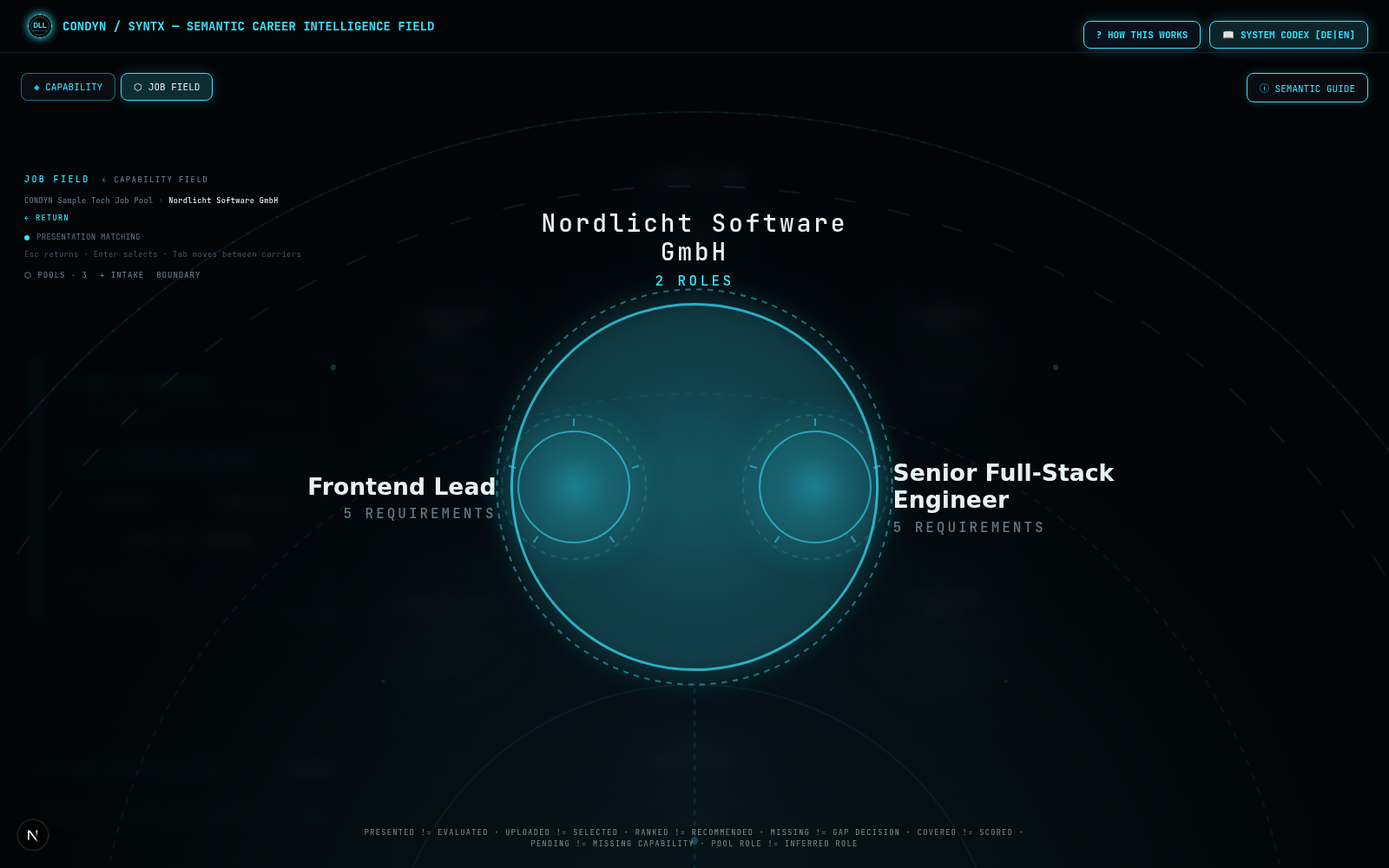
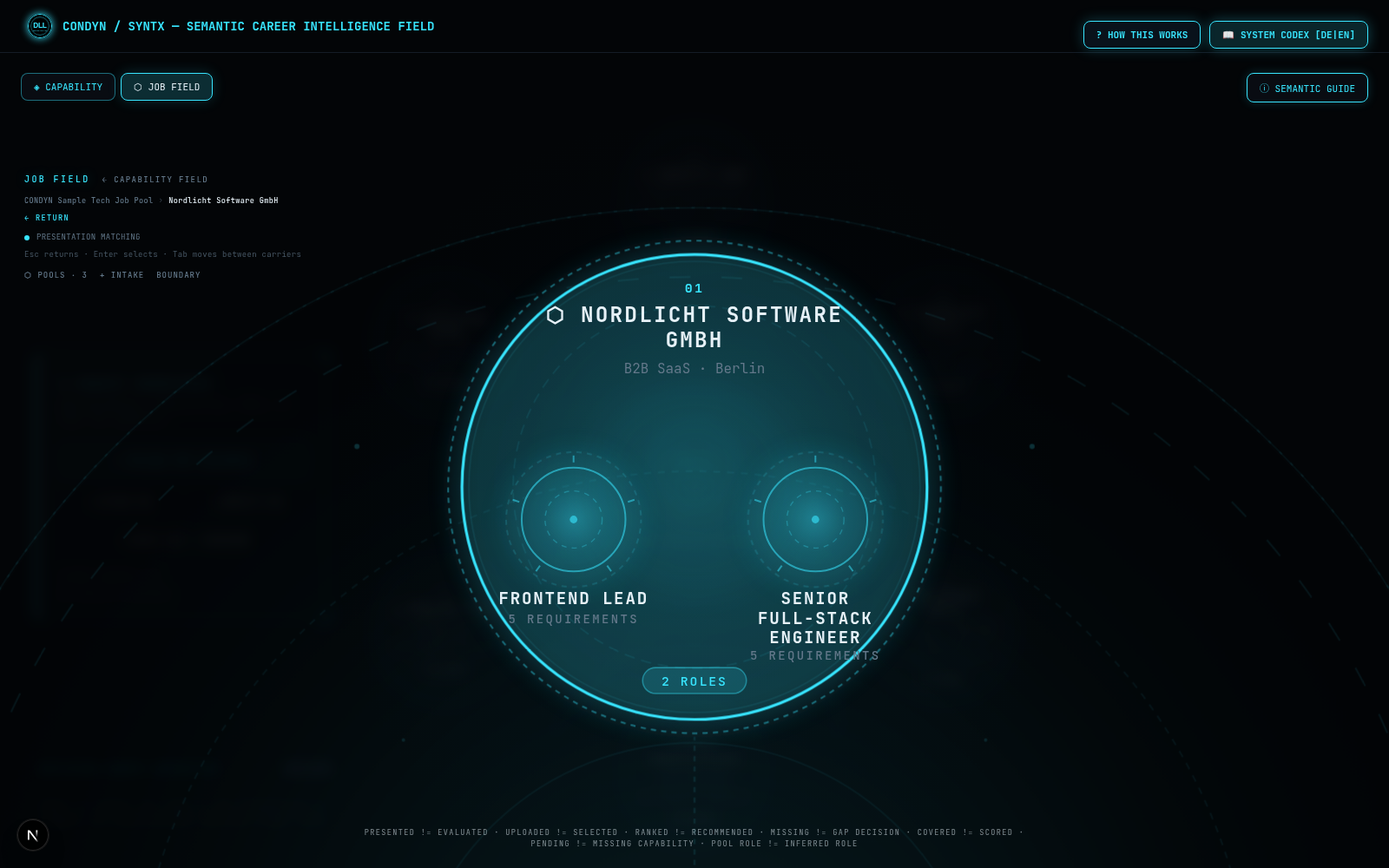
feat(career): SYNTX visual grammar transfer — planetarium nodes, pool core, mint evidence carriers, draw-on traces, HUD aperture
Owner mandates "SFE — GREEN · VISUAL FIELD RECONSTRUCTION" and "SFE — GREEN · VISUAL GRAMMAR TRANSFER" (2026-10-12), on e6486b1.
Three lab rounds in Chromium against the Capability Field captured in the same environment (sequence under
docs/career_analysis/evidence/job-pool/living-field/, reference included).

- Regions are planetarium nodes: glass body and rim, inner and signature rings, identity block inside (kicker, ⬡ name, industry · region),
  density pill (N ROLES); region radius min(190, 92 + 30·√roles); roles on a lower inner ring (centre +.14 r, .44 r / .52 r unfolded).
- Role carriers are cores: signature ring + centre point, mono uppercase title (CSS text-transform; DOM keeps the delivered name)
  with N REQUIREMENTS; in the ecology the title sits inside the core and two plasma rings settle once (sxCoreSettle, role_selected).
- The pool has a core at the field centre (glow, core body, two plasma rings turning under sxOrbit at FIELD only, pool name,
  N ORGANIZATIONS) from which the containment spokes radiate.
- Evidence carriers in the planetarium's mint: document glyph, SOURCE kicker, title; every trace carries a ray underlay drawing on
  from the carrier to the anchor (sxTraceDraw, trace_rise) while the pattern fades in; SOURCE_BOX grown to the carrier's reach.
- Requirement labels mono (REQUIREMENT_LABEL.charWidth 4.9, routing and renderer alike); aperture carries the hover-HUD surface;
  atmosphere and node rims brightened to the reference.
[…]

Changed region(s): [[0.2188, 0.248, 0.8125, 0.837]]

diff --git a/app/components/career/demo/SyntxField.tsx b/app/components/career/demo/SyntxField.tsx
@@ -78,7 +78,7 @@ const word = (color: string): React.CSSProperties => ({ fontFamily: MONO, fontSi
 const action = (tone: "cyan" | "muted" = "cyan", enabled = true): React.CSSProperties => ({ background: "transparent", border: "none", padding: "4px 0", fontFamily: MONO, fontSize: "9px", fontWeight: 600, letterSpacing: "1.4px", textTransform: "uppercase", color: !enabled ? "rgba(99, 120, 138, 0.6)" : tone === "cyan" ? CYAN : MUTED, cursor: enabled ? "pointer" : "not-allowed", textShadow: enabled && tone === "cyan" ? `0 0 10px ${SIL_TOKENS.colors.cyanGlow}` : undefined, transition: "color .25s ease" });
 const ghost: React.CSSProperties = { ...action("muted"), fontSize: "8px", letterSpacing: "1px" };
 /** An aperture or edge lens: a faint void behind text, no border, no card chrome. */
-const lens: React.CSSProperties = { background: "radial-gradient(ellipse at 20% 0%, rgba(3, 5, 8, 0.94) 0%, rgba(3, 5, 8, 0.84) 60%, rgba(3, 5, 8, 0.64) 100%)", backdropFilter: "blur(6px)", borderRadius: "14px", padding: "14px 16px" };
+const lens: React.CSSProperties = { background: "radial-gradient(circle at 82% 12%, rgba(56, 229, 255, 0.14), transparent 38%), radial-gradient(circle at 18% 88%, rgba(107, 142, 255, 0.1), transparent 42%), linear-gradient(145deg, #0a1c2b, #071321 28%, #050c18 62%, #02070d)", border: "1.5px solid rgba(56, 229, 255, 0.85)", boxShadow: "0 16px 44px rgba(0, 0, 0, 0.92), 0 0 34px rgba(56, 229, 255, 0.28), 0 0 72px rgba(56, 229, 255, 0.1), inset 0 0 54px rgba(0, 0, 0, 0.88)", backdropFilter: "blur(10px)", borderRadius: "10px", padding: "16px 18px" };
 const input: React.CSSProperties = { width: "100%", boxSizing: "border-box", background: "transparent", border: "none", borderBottom: "1px solid rgba(99, 120, 138, 0.4)", color: INK, fontFamily: MONO, fontSize: "10px", padding: "5px 0", outline: "none" };
 const percent = (value: number): string => `${Math.round(value * 1000) / 10}%`;
 const visuallyHidden: React.CSSProperties = { position: "absolute", width: "1px", height: "1px", margin: "-1px", padding: 0, overflow: "hidden", clip: "rect(0 0 0 0)", whiteSpace: "nowrap", border: 0 };
@@ -107,10 +107,17 @@ const SYNTX_CSS = `
 @keyframes sxUnfold { from { opacity: 0; transform: scale(.3); } to { opacity: 1; transform: scale(1); } }
 @keyframes sxTraceRise { from { opacity: 0; transform: scale(.3); } to { opacity: 1; transform: scale(1); } }
 @keyframes sxSuspendEnter { from { opacity: 0; transform: scale(.94); } to { opacity: 1; transform: scale(1); } }
+@keyframes sxTraceDraw { from { stroke-dashoffset: 1; } to { stroke-dashoffset: 0; } }
+@keyframes sxCoreSettle { from { opacity: 0; transform: rotate(-70deg) scale(.86); } to { opacity: 1; transform: rotate(0deg) scale(1); } }
 [data-testid="syntx-field"] [data-sx-reveal] { animation: sxRise .32s ease-out backwards; }
 /* Transitions of the living field: each finite, each bound to the sign's transition or state (recenter, unfold, trace_rise, boundary_suspend). */
 [data-testid="syntx-canvas"] [data-sign-transition="unfold"][data-sign-manifestation="anchor"] { transform-box: view-box; transform-origin: var(--sx-origin); animation: sxUnfold .78s cubic-bezier(.16,1,.3,1) backwards; }
 [data-testid="syntx-canvas"] [data-sign-transition="trace_rise"] { transform-box: view-box; transform-origin: var(--sx-origin); animation: sxTraceRise .78s cubic-bezier(.16,1,.3,1) .12s backwards; }
+/* Evidence rises: the trace's ray draws on from the source carrier to the anchor (trace_rise), the pattern fades in behind it. */
+[data-testid="syntx-canvas"] [data-sign-transition="trace_rise"] > [data-sx-trace-ray] { animation: sxTraceDraw 1.1s cubic-bezier(.3,0,.2,1) .2s backwards; }
+[data-testid="syntx-canvas"] [data-sign-transition="trace_rise"] > path:not([data-sx-hit]):not([data-sx-trace-ray]):not([data-sx-trace-glow]) { animation: sxRise .6s ease-out .7s backwards; }
+/* The observed role settles as the core of its ecology (role_selected): its plasma rings turn into place once. */
+[data-testid="syntx-canvas"] [data-sign-state="role_selected"] > [data-sx-core-ring] { transform-box: fill-box; transform-origin: center; animation: sxCoreSettle 1.2s cubic-bezier(.16,1,.3,1) backwards; }
 [data-testid="syntx-canvas"] [data-sign-transition="boundary_suspend"] { transform-box: view-box; transform-origin: var(--sx-origin); animation: sxSuspendEnter .78s cubic-bezier(.16,1,.3,1) backwards; }
 [data-testid="syntx-canvas"] :is([data-sign-state="organization_selected"], [data-sign-state="role_selected"], [data-sign-state="requirement_selected"]) > [data-sx-pulse] { transform-box: fill-box; transform-origin: center; animation: sxRecenter .9s ease-out forwards; }
 /* Depth: receded regions and carriers whose labels are hidden fall back behind the ecology (no visible text is blurred). */
@@ -125,6 +132,7 @@ const SYNTX_CSS = `
 [data-testid="syntx-canvas"] [data-sign-interaction="select"]:hover > [data-sx-membrane] > circle:last-child { stroke: rgba(56, 229, 255, 0.5); }
 /* Ambient life (separable: SYNTX_AMBIENT_MOTION): LIVE, FIELD / ORGANIZATION, signs in state "field", uniform per kind, phase by containment. */
 [data-testid="syntx-field"][data-sx-ambient="on"][data-motion-mode="LIVE"][data-observation-kind="FIELD"] [data-testid="syntx-pool"][data-sign-state="field"] [data-sx-orbit] { transform-box: fill-box; transform-origin: center; animation: sxOrbit 120s linear infinite; }
+[data-testid="syntx-field"][data-sx-ambient="on"][data-motion-mode="LIVE"][data-observation-kind="FIELD"] [data-testid="syntx-pool"][data-sign-state="field"] [data-sx-orbit-ccw] { transform-box: fill-box; transform-origin: center; animation: sxOrbit 90s linear infinite reverse; }
 [data-testid="syntx-field"][data-sx-ambient="on"][data-motion-mode="LIVE"]:is([data-observation-kind="FIELD"], [data-observation-kind="ORGANIZATION"]) [data-sign-manifestation="region"][data-sign-state="field"] > [data-sx-membrane] > circle,
 [data-testid="syntx-field"][data-sx-ambient="on"][data-motion-mode="LIVE"]:is([data-observation-kind="FIELD"], [data-observation-kind="ORGANIZATION"]) [data-testid^="syntx-role-"][data-sign-state="field"] > [data-sx-halo] { animation: sxBreathe 6.2s linear infinite; animation-delay: var(--sx-phase, 0s); }
 [data-testid="syntx-field"] button:hover:not(:disabled) { color: #e6f1f8; }
@@ -200,9 +208,10 @@ const receded = (sign: VisualSign): boolean => sign.state === "receded";
 const traceOrder = (trace: SyntxTrace): number => (trace.sign.state === "inspectable" ? 2 : trace.sign.state === "receded" ? 0 : 1);
 const recedeOpacity = (sign: VisualSign, deep = 0.22): number => (receded(sign) ? deep : 1);
 
-function SvgLabel({ lines, x, y, size, fill, weight = 600, anchor = "middle", family = SANS, spacing }: { lines: string[]; x: number; y: number; size: number; fill: string; weight?: number; anchor?: "middle" | "start" | "end"; family?: string; spacing?: number }) {
+function SvgLabel({ lines, x, y, size, fill, weight = 600, anchor = "middle", family = SANS, spacing, uppercase = false }: { lines: string[]; x: number; y: number; size: number; fill: string; weight?: number; anchor?: "middle" | "start" | "end"; family?: string; spacing?: number; uppercase?: boolean }) {
+  // Uppercase is presentation only (CSS): the DOM text keeps the delivered name.
   return (
-    <text x={x} y={y} textAnchor={anchor} fill={fill} fontFamily={family} fontSize={size} fontWeight={weight} letterSpacing={spacing} style={{ pointerEvents: "none" }}>
+    <text x={x} y={y} textAnchor={anchor} fill={fill} fontFamily={family} fontSize={size} fontWeight={weight} letterSpacing={spacing} style={{ pointerEvents: "none", textTransform: uppercase ? "uppercase" : undefined }}>
       {lines.map((line, index) => <tspan key={index} x={x} dy={index === 0 ? 0 : size * 1.18}>{line}</tspan>)}
     </text>
   );
@@ -256,7 +265,7 @@ function FieldCanvas({ field, mode, t, onObserve }: CanvasProps) {
     <svg data-testid="syntx-canvas" data-motion-mode={mode} data-camera-scale={camera.scale} viewBox={`0 0 ${size} ${size}`} style={{ position: "absolute", inset: 0, width: "100%", height: "100%", overflow: "visible" }} onClick={() => onObserve(returnFrom(observation))}>
       <defs>
         {/* Materials of the Capability Field (planetarium): atmosphere, membrane, core light, soft glow. */}
-        <radialGradient id="sxField"><stop offset="0%" stopColor="#38e5ff" stopOpacity="0.16" /><stop offset="58%" stopColor="#38e5ff" stopOpacity="0.035" /><stop offset="100%" stopColor="#030508" stopOpacity="0" /></radialGradient>
+        <radialGradient id="sxField"><stop offset="0%" stopColor="#38e5ff" stopOpacity="0.2" /><stop offset="58%" stopColor="#38e5ff" stopOpacity="0.04" /><stop offset="100%" stopColor="#030508" stopOpacity="0" /></radialGradient>
         <radialGradient id="sxMembrane"><stop offset="0%" stopColor="#38e5ff" stopOpacity="0.11" /><stop offset="56%" stopColor="#38e5ff" stopOpacity="0.035" /><stop offset="100%" stopColor="#38e5ff" stopOpacity="0.01" /></radialGradient>
         <radialGradient id="sxCore"><stop offset="0%" stopColor="#38e5ff" stopOpacity="0.3" /><stop offset="62%" stopColor="#38e5ff" stopOpacity="0.08" /><stop offset="100%" stopColor="#38e5ff" stopOpacity="0.02" /></radialGradient>
         <filter id="sxGlow" x="-60%" y="-60%" width="220%" height="220%"><feGaussianBlur stdDeviation="7" /></filter>
@@ -287,6 +296,17 @@ function FieldCanvas({ field, mode, t, onObserve }: CanvasProps) {
                 );
               })}
               <circle cx={center} cy={center} r={R} fill="none" stroke="rgba(56, 229, 255, 0.14)" strokeDasharray="2 7" />
+              {/* The pool core: the field's organism at the centre, where the containment spokes originate (planetarium core grammar). */}
+              <g data-sx-pool-core style={{ opacity: field.pool.sign.state === "field" ? 1 : 0, transition: "opacity .45s ease" }}>
+                <circle cx={center} cy={center} r={62} fill="rgba(56, 229, 255, 0.16)" filter="url(#sxGlow)" />
+                <circle cx={center} cy={center} r={48} fill="url(#sxCore)" stroke="rgba(56, 229, 255, 0.45)" strokeWidth={1.4} />
+                <circle data-sx-orbit cx={center} cy={center} r={58} fill="none" stroke={CYAN} strokeWidth={1.1} strokeDasharray="24 12 8 16" opacity={0.55} />
+                <circle data-sx-orbit-ccw cx={center} cy={center} r={68} fill="none" stroke={SIL_TOKENS.colors.cyanGlowStrong} strokeWidth={0.9} strokeDasharray="16 8 4 12" opacity={0.6} />
+                <circle cx={center} cy={center} r={40} fill="none" stroke="rgba(56, 229, 255, 0.22)" strokeWidth={0.8} />
+                <text x={center} y={center - 10} textAnchor="middle" fill={MUTED} fontFamily={MONO} fontSize={6.6} fontWeight={700} letterSpacing={1.6}>{t.pools}</text>
+                <SvgLabel lines={wrapLines(field.pool.poolName, 14, 2)} x={center} y={center + 2} size={7.6} fill={INK} weight={700} family={MONO} spacing={0.8} uppercase />
+                <text x={center} y={center + 2 + wrapLines(field.pool.poolName, 14, 2).length * 9 + 4} textAnchor="middle" fill={CYAN} fontFamily={MONO} fontSize={6.2} fontWeight={600} letterSpacing={1.2}>{field.organizations.length} {t.organizations}</text>
+              </g>
             </g>
           );
         })()}
@@ -294,9 +314,12 @@ function FieldCanvas({ field, mode, t, onObserve }: CanvasProps) {
         {/* Organizations: named membranes; roles are visibly contained. Far regions recede with depth once a role is observed. */}
         {field.organizations.map(organization => {
           const selected = organization.sign.state === "organization_selected";
-          const far = observedRole !== null && organization.sign.state === "field";
-          const lines = wrapLines(organization.name, 22, 2);
+          const far = (observedRole !== null && organization.sign.state === "field") || (observation.kind === "ORGANIZATION" && organization.sign.state === "receded");
+          const index = field.organizations.indexOf(organization);
+          const nameLines = wrapLines(organization.name, 18, 2);
+          const subtitle = [organization.industry, organization.region].filter((part): part is string => part !== null).join(" · ");
           const r = organization.radius;
+          const top = organization.y - r;
           return (
             <g
               key={organization.id}
@@ -318,14 +341,19 @@ function FieldCanvas({ field, mode, t, onObserve }: CanvasProps) {
                 <circle cx={organization.x} cy={organization.y} r={r} fill="url(#sxMembrane)" />
                 <circle cx={organization.x} cy={organization.y} r={r + 8} fill="none" stroke={selected ? "rgba(56, 229, 255, 0.42)" : "rgba(56, 229, 255, 0.18)"} strokeWidth={1} strokeDasharray="3 3" style={{ transition: "stroke .4s ease" }} />
               </g>
-              <circle cx={organization.x} cy={organization.y} r={r} fill={selected ? "rgba(56, 229, 255, 0.05)" : "rgba(56, 229, 255, 0.02)"} stroke={selected ? "rgba(56, 229, 255, 0.7)" : "rgba(56, 229, 255, 0.26)"} strokeWidth={selected ? 1.4 : 1} style={{ transition: "stroke .4s ease, fill .4s ease" }} />
+              {/* Semiotic signature of a region: a faint inner ring, as every planetarium node carries one. */}
+              <circle cx={organization.x} cy={organization.y} r={r * 0.78} fill="none" stroke="rgba(56, 229, 255, 0.1)" strokeWidth={0.8} strokeDasharray="6 4" style={{ pointerEvents: "none" }} />
+              <circle cx={organization.x} cy={organization.y} r={r} fill={selected ? "rgba(56, 229, 255, 0.05)" : "rgba(10, 14, 20, 0.35)"} stroke={selected ? "#38e5ff" : "rgba(56, 229, 255, 0.4)"} strokeWidth={selected ? 1.6 : 1.3} style={{ transition: "stroke .4s ease, fill .4s ease" }} />
+              <circle cx={organization.x} cy={organization.y} r={r - 4} fill="none" stroke="rgba(56, 229, 255, 0.1)" strokeWidth={0.8} style={{ pointerEvents: "none" }} />
               {selected && <circle data-sx-pulse cx={organization.x} cy={organization.y} r={r + 8} fill="none" stroke={CYAN} strokeWidth={1.4} style={{ pointerEvents: "none" }} />}
-              {!far && (
-                <>
-                  <SvgLabel lines={lines} x={organization.x} y={organization.y - r - 24 - (lines.length - 1) * 15} size={13} fill={selected ? INK : INK_SOFT} weight={600} family={MONO} spacing={1.4} />
-                  <text x={organization.x} y={organization.y - r - 10} textAnchor="middle" fill={selected ? CYAN : MUTED} fontFamily={MONO} fontSize={7.5} fontWeight={600} letterSpacing={1.6} style={{ pointerEvents: "none" }}>{organization.roleIds.length} {t.roles}</text>
-                </>
-              )}
+              {/* Identity block (planetarium node grammar): kicker, glyph + name, subtitle; the density pill below the roles. Hidden text stays in the DOM when the region is far. */}
+              <g style={{ pointerEvents: "none", opacity: far ? 0 : 1, transition: "opacity .45s ease" }}>
+                <text x={organization.x} y={top + 22} textAnchor="middle" fill={selected ? CYAN : MUTED} fontFamily={MONO} fontSize={7.5} fontWeight={700} letterSpacing={1.2}>{String(index + 1).padStart(2, "0")}</text>
+                <SvgLabel lines={nameLines.map((line, lineIndex) => (lineIndex === 0 ? `⬡ ${line}` : line))} x={organization.x} y={top + 39} size={12.2} fill={selected ? INK : INK_SOFT} weight={700} family={MONO} spacing={1.1} uppercase />
+                {subtitle.length > 0 && <text x={organization.x} y={top + 39 + nameLines.length * 14.4 + 1} textAnchor="middle" fill={MUTED} fontFamily={MONO} fontSize={8}>{subtitle}</text>}
+                <rect x={organization.x - 30} y={organization.y + r - 30} width={60} height={15} rx={7.5} fill={selected ? "rgba(56, 229, 255, 0.15)" : "rgba(255, 255, 255, 0.05)"} stroke={selected ? "rgba(56, 229, 255, 0.4)" : "transparent"} strokeWidth={0.8} />
+                <text x={organization.x} y={organization.y + r - 19.5} textAnchor="middle" fill={selected ? CYAN : INK_SOFT} fontFamily={MONO} fontSize={7.4} fontWeight={600} letterSpacing={1}>{organization.roleIds.length} {t.roles}</text>
+              </g>
             </g>
           );
         })}
@@ -334,22 +362,16 @@ function FieldCanvas({ field, mode, t, onObserve }: CanvasProps) {
         {field.roles.map(role => {
           const selected = role.sign.state === "role_selected";
           const inEcology = observedRole !== null && observedRole.id === role.id;
-          const lines = wrapLines(role.title, 17, 3);
+          const lines = wrapLines(role.title, 13, 3);
           const ticks = Math.min(14, role.requirementCount);
           const region = field.organizations.find(organization => organization.id === role.organizationId)!;
-          const siblings = region.roleIds.length;
           const organizationIndex = field.organizations.indexOf(region);
-          // The label sits outward from the region centre (readable, never colliding with a sibling's label); a single role reads below its body.
-          const ox = siblings > 1 ? role.x - region.x : 0;
-          const oy = siblings > 1 ? role.y - region.y : 1;
-          const norm = Math.hypot(ox, oy) || 1;
-          const ux = ox / norm;
-          const uy = oy / norm;
-          const labelAnchor: "middle" | "start" | "end" = Math.abs(ux) < 0.35 ? "middle" : ux > 0 ? "start" : "end";
-          const labelX = ux * (role.radius + 12);
-          const labelY = uy * (role.radius + 12) + (Math.abs(ux) < 0.35 ? (uy > 0 ? 12 : -(lines.length - 1) * 14.75 - 4) : -(lines.length - 1) * 7.4 + 4);
+          // The label reads below the body inside the region, in the node grammar (mono, tracked); the ecology shows the title inside the core.
+          const labelAnchor = "middle" as const;
+          const labelX = 0;
+          const labelY = role.radius + 19;
           const labelHidden = observedRole !== null && !inEcology;
-          const far = labelHidden && role.sign.state === "receded";
+          const far = (labelHidden && role.sign.state === "receded") || (observation.kind === "ORGANIZATION" && region.sign.state === "receded");
           const lit = selected || inEcology;
           const r = role.radius;
           return (
@@ -370,10 +392,10 @@ function FieldCanvas({ field, mode, t, onObserve }: CanvasProps) {
             >
               {(() => {
                 // The hit area covers body and label together, so the carrier's bounding-box centre is always a hit (keyboard, pointer, automation alike).
-                const labelWidth = labelHidden || inEcology ? 0 : Math.max(...lines.map(line => line.length)) * 6.9;
-                const labelLeft = labelAnchor === "start" ? labelX : labelAnchor === "end" ? labelX - labelWidth : labelX - labelWidth / 2;
-                const labelTop = labelY - 12.5;
-                const labelBottom = labelY + (lines.length - 1) * 14.75 + 4;
+                const labelWidth = labelHidden || inEcology ? 0 : Math.max(...lines.map(line => line.length)) * 5.6;
+                const labelLeft = labelX - labelWidth / 2;
+                const labelTop = labelY - 9;
+                const labelBottom = labelY + (lines.length - 1) * 10.6 + 14;
                 const left = Math.min(-r - 11, labelWidth > 0 ? labelLeft : Infinity);
                 const right = Math.max(r + 11, labelWidth > 0 ? labelLeft + labelWidth : -Infinity);
                 const top = Math.min(-r - 11, labelWidth > 0 ? labelTop : Infinity);
@@ -390,9 +412,22 @@ function FieldCanvas({ field, mode, t, onObserve }: CanvasProps) {
                 const radians = ((angle - 90) * Math.PI) / 180;
                 return <line key={index} x1={(r + 3) * Math.cos(radians)} y1={(r + 3) * Math.sin(radians)} x2={(r + 7) * Math.cos(radians)} y2={(r + 7) * Math.sin(radians)} stroke="rgba(56, 229, 255, 0.5)" strokeWidth={1} />;
               })}
-              {!inEcology && !labelHidden && <SvgLabel lines={lines} x={labelX} y={labelY} size={12.5} fill={INK} weight={600} anchor={labelAnchor} />}
-              {!inEcology && !labelHidden && <text x={labelX} y={labelY + (lines.length - 1) * 14.75 + 13} textAnchor={labelAnchor} fill={MUTED} fontFamily={MONO} fontSize={7.5} fontWeight={600} letterSpacing={1.4} style={{ pointerEvents: "none" }}>{role.requirementCount} {t.requirements}</text>}
-              {inEcology && <SvgLabel lines={wrapLines(role.title, 15, 3)} x={0} y={-4 - (wrapLines(role.title, 15, 3).length - 1) * 5.5} size={8.5} fill={INK} weight={700} />}
+              {/* Signature of a carrier: the inner ring and centre point of a planetarium node. */}
+              <circle cx={0} cy={0} r={r * 0.55} fill="none" stroke="rgba(56, 229, 255, 0.28)" strokeWidth={0.7} strokeDasharray="3 3" style={{ pointerEvents: "none" }} />
+              {!inEcology && <circle cx={0} cy={0} r={2.2} fill={lit ? CYAN : "rgba(56, 229, 255, 0.6)"} style={{ pointerEvents: "none" }} />}
+              {inEcology && (
+                <>
+                  <circle data-sx-core-ring cx={0} cy={0} r={r + 16} fill="none" stroke={CYAN} strokeWidth={1.2} strokeDasharray="24 12 8 16" opacity={0.55} style={{ pointerEvents: "none" }} />
+                  <circle data-sx-core-ring cx={0} cy={0} r={r + 23} fill="none" stroke={SIL_TOKENS.colors.cyanGlowStrong} strokeWidth={1} strokeDasharray="16 8 4 12" opacity={0.5} style={{ pointerEvents: "none" }} />
+                </>
+              )}
+              {!inEcology && (
+                <g style={{ pointerEvents: "none", opacity: labelHidden ? 0 : 1, transition: "opacity .45s ease" }}>
+                  <SvgLabel lines={lines} x={labelX} y={labelY} size={9.6} fill={INK} weight={700} anchor={labelAnchor} family={MONO} spacing={0.9} uppercase />
+                  <text x={labelX} y={labelY + (lines.length - 1) * 10.6 + 11} textAnchor={labelAnchor} fill={MUTED} fontFamily={MONO} fontSize={7} fontWeight={600} letterSpacing={1.2}>{role.requirementCount} {t.requirements}</text>
+                </g>
+              )}
+              {inEcology && <SvgLabel lines={wrapLines(role.title, 11, 3)} x={0} y={-3 - (wrapLines(role.title, 11, 3).length - 1) * 4.6} size={7.2} fill={INK} weight={700} family={MONO} spacing={0.6} uppercase />}
             </g>
           );
         })}
@@ -419,9 +454,11 @@ function FieldCanvas({ field, mode, t, onObserve }: CanvasProps) {
               const lines = source.title !== null ? wrapLines(source.title, 20, 2) : [t.source];
               return (
                 <g key={source.docId} data-testid={`syntx-source-${source.docId}`} data-source-title-state={source.titleState} data-trace-count={source.traceCount} {...signAttributes(source.sign)} style={{ opacity: recedeOpacity(source.sign, 0.18), ...origin(observedRole.x, observedRole.y) }}>
-                  <rect data-sx-carrier-glow x={source.x - 16} y={source.y - 16} width={32} height={32} rx={8} fill="rgba(56, 229, 255, 0.22)" filter="url(#sxGlow)" style={{ pointerEvents: "none" }} />
-                  <rect x={source.x - 9} y={source.y - 9} width={18} height={18} rx={3} fill="rgba(3, 5, 8, 0.9)" stroke={source.sign.relation === "covers_unscored" ? "rgba(56, 229, 255, 0.55)" : "rgba(56, 229, 255, 0.8)"} strokeWidth={0.9} strokeDasharray={source.sign.relation === "covers_unscored" ? "2 2" : undefined} />
-                  <SvgLabel lines={lines} x={source.x} y={source.y + 22} size={7.5 * (1 + labelScale) / 2 + 3} fill={source.title !== null ? INK_SOFT : MUTED} weight={500} family={MONO} />
+                  <rect data-sx-carrier-glow x={source.x - 16} y={source.y - 16} width={32} height={32} rx={8} fill="rgba(126, 255, 204, 0.2)" filter="url(#sxGlow)" style={{ pointerEvents: "none" }} />
+                  <rect x={source.x - 10} y={source.y - 12} width={20} height={24} rx={3} fill="rgba(3, 14, 20, 0.96)" stroke={source.sign.relation === "covers_unscored" ? "rgba(126, 255, 204, 0.5)" : "rgba(126, 255, 204, 0.8)"} strokeWidth={0.9} strokeDasharray={source.sign.relation === "covers_unscored" ? "2 2" : undefined} />
+                  {[-5, 0, 5].map(offset => <line key={offset} x1={source.x - 5} y1={source.y + offset} x2={source.x + (offset === 5 ? 1 : 5)} y2={source.y + offset} stroke="rgba(126, 255, 204, 0.5)" strokeWidth={0.8} />)}
+                  <text x={source.x} y={source.y + 32} textAnchor="middle" fill="rgba(126, 255, 204, 0.75)" fontFamily={MONO} fontSize={5.6 * (1 + labelScale) / 2 + 2} fontWeight={700} letterSpacing={1.2}>{t.source}</text>
+                  <SvgLabel lines={lines} x={source.x} y={source.y + 44} size={7.5 * (1 + labelScale) / 2 + 3} fill={source.title !== null ? INK_SOFT : MUTED} weight={500} family={MONO} />
                 </g>
               );
             })}
@@ -446,6 +483,7 @@ function FieldCanvas({ field, mode, t, onObserve }: CanvasProps) {
                 >
                   <path data-sx-hit d={d} fill="none" stroke="transparent" strokeWidth={10} />
                   <path d={d} fill="none" stroke={stroke.color} strokeWidth={trace.weight * (inspectable ? 1.4 : 1)} strokeDasharray={stroke.dash} strokeLinecap="round" style={{ pointerEvents: "none" }} />
+                  <path data-sx-trace-ray d={tracePath(source ?? requirement, requirement, -trace.bow)} pathLength={1} fill="none" stroke={trace.kind === "covers_unscored" ? "rgba(142, 239, 255, 0.28)" : "rgba(142, 239, 255, 0.45)"} strokeWidth={0.8} strokeDasharray="1 1" strokeLinecap="round" style={{ pointerEvents: "none" }} />
                   <path data-sx-trace-glow d={d} fill="none" stroke="rgba(56, 229, 255, 0.16)" strokeWidth={trace.weight * 4} strokeLinecap="round" style={{ pointerEvents: "none" }} />
                 </g>
               );
@@ -473,7 +511,7 @@ function FieldCanvas({ field, mode, t, onObserve }: CanvasProps) {
                     <circle cx={requirement.x} cy={requirement.y} r={selected ? shape.r + 1.5 : shape.r} fill={shape.fill} stroke={shape.stroke} strokeWidth={shape.strokeWidth} strokeDasharray={shape.dash} style={{ transition: "r .25s ease" }} />
                     {selected && <circle cx={requirement.x} cy={requirement.y} r={shape.r + 7} fill="none" stroke="rgba(56, 229, 255, 0.45)" strokeWidth={0.6} />}
                     {selected && <circle data-sx-pulse cx={requirement.x} cy={requirement.y} r={shape.r + 7} fill="none" stroke={CYAN} strokeWidth={1} style={{ pointerEvents: "none" }} />}
-                    <SvgLabel lines={lines} x={labelX} y={labelY} size={7.8} fill={selected ? INK : INK_SOFT} weight={600} anchor={anchorText} />
+                    <SvgLabel lines={lines} x={labelX} y={labelY} size={7.8} fill={selected ? INK : INK_SOFT} weight={700} anchor={anchorText} family={MONO} spacing={0.4} />
                   </g>
                   {requirement.openBoundary !== null && (
                     <g

diff --git a/lib/career/job-pool/syntx-field-view-model.ts b/lib/career/job-pool/syntx-field-view-model.ts
@@ -327,11 +327,11 @@ export interface LabelBox { x: number; y: number; width: number; height: number 
 export interface RequirementLabel { lines: string[]; x: number; y: number; anchor: "middle" | "start" | "end"; box: LabelBox }
 
 /** Requirement label metrics (font size and character width in field units, as the renderer draws them). */
-export const REQUIREMENT_LABEL = Object.freeze({ maxChars: 16, maxLines: 3, size: 7.8, charWidth: 4.4, lineHeight: 9.2, gap: 12 });
+export const REQUIREMENT_LABEL = Object.freeze({ maxChars: 16, maxLines: 3, size: 7.8, charWidth: 4.9, lineHeight: 9.2, gap: 12 });
 /** The role carrier with its inner title: no trace enters this disc (O-SX-2). */
 export const ROLE_CLEARANCE_RADIUS = 48;
-/** Source carrier square (±9) with its two-line title below: no foreign trace crosses it. */
-export const SOURCE_BOX = Object.freeze({ halfWidth: 52, above: 10, below: 46 });
+/** Source carrier (document glyph ±12) with its SOURCE kicker and two-line title below: no foreign trace crosses it; the REQUIREMENT camera keeps it in view. */
+export const SOURCE_BOX = Object.freeze({ halfWidth: 52, above: 14, below: 68 });
 /** Bows tried in order; co-terminal traces never share a bow, so each remains visible and hit-testable (F-SX-2). */
 export const TRACE_BOWS: readonly number[] = Object.freeze([0, 18, -18, 36, -36, 54, -54, 72, -72]);
 const TRACE_CLEARANCE = 2;
@@ -454,8 +454,9 @@ function placeOrganizations(groups: ReadonlyArray<{ id: string; roleIds: string[
   const count = groups.length;
   const { center } = SYNTX_LAYOUT;
   if (count === 0) return placed;
-  const density = (roleIds: string[]) => Math.min(165, 62 + 26 * Math.sqrt(Math.max(1, roleIds.length)));
-  if (count === 1) { placed.set(groups[0].id, { x: center, y: center, radius: Math.min(240, density(groups[0].roleIds) + 60) }); return placed; }
+  // A region is a planetarium node: room for its identity block above the roles and its density pill below (living field, 2026-10-12).
+  const density = (roleIds: string[]) => Math.min(190, 92 + 30 * Math.sqrt(Math.max(1, roleIds.length)));
+  if (count === 1) { placed.set(groups[0].id, { x: center, y: center, radius: Math.min(250, density(groups[0].roleIds) + 50) }); return placed; }
   const maxRadius = Math.max(...groups.map(group => density(group.roleIds)));
   // Regions are spaced so that a role label reaching outward from one region (≈ 138 units) never crosses into the next region.
   const ring = Math.min(500 - maxRadius - 24, Math.max(170, (maxRadius + 138) / Math.sin(Math.PI / count)));
@@ -470,10 +471,12 @@ function placeOrganizations(groups: ReadonlyArray<{ id: string; roleIds: string[
 /** Roles inside their organization region: one at the centre, otherwise on an inner ring; unfolded (wider) when the organization is observed. */
 function placeRoles(region: { x: number; y: number; radius: number }, roleIds: readonly string[], unfolded: boolean): Map<string, { x: number; y: number }> {
   const placed = new Map<string, { x: number; y: number }>();
-  if (roleIds.length === 1) { placed.set(roleIds[0], { x: region.x, y: region.y }); return placed; }
-  const inner = region.radius * (unfolded ? 0.66 : 0.52);
+  // The roles sit in the lower part of the region (the identity block reads above them), on an inner ring that widens when the region unfolds.
+  const centreY = region.y + region.radius * 0.14;
+  if (roleIds.length === 1) { placed.set(roleIds[0], { x: region.x, y: round(centreY) }); return placed; }
+  const inner = region.radius * (unfolded ? 0.52 : 0.44);
   const slot = 360 / roleIds.length;
-  roleIds.forEach((id, index) => { const [x, y] = polar(region.x, region.y, inner, index * slot + (roleIds.length === 2 ? 90 : 0)); placed.set(id, { x, y }); });
+  roleIds.forEach((id, index) => { const [x, y] = polar(region.x, centreY, inner, index * slot + (roleIds.length === 2 ? 90 : 0)); placed.set(id, { x, y }); });
   return placed;
 }
 

diff --git a/test/career/job-pool/syntx-field-ssr.test.tsx b/test/career/job-pool/syntx-field-ssr.test.tsx
@@ -88,7 +88,8 @@ describe("SYNTX field (server-rendered)", () => {
     // Readable names, no truncation as the primary display.
     expect(html).toContain("Platform Engineer");
     expect(html).toContain("Data Analyst");
-    expect(html).toContain(">Acme<");
+    // The region name reads inside the node behind the field glyph (visual grammar transfer); the delivered name itself is the DOM text.
+    expect(html).toMatch(/>(⬡ )?Acme</);
     // No score, rank or coupling in the FIELD state (R4/R14); no requirement ecology before a role is observed.
     expect(html).not.toContain("data-resonance-score");
     expect(textOf(html, ...STAGE)).not.toMatch(/\d+(\.\d+)?%|#\d/);

diff --git a/docs/career_analysis/JOB_FIELD_FRONTEND.md b/docs/career_analysis/JOB_FIELD_FRONTEND.md
@@ -485,6 +485,31 @@ transform, so every sign's bounding box is static. Closed list of infinite anima
 unchanged — every animation and transition zeroed, identical sign set. This block implements option B of GELB's escalation; under
 option A (spec §1 / §6.2 stand) the switch is set to `false` and the field lives through transitions and static depth alone.
 
+#### 13.2.2 Visual grammar transfer (owner mandates "SFE — GREEN · VISUAL FIELD RECONSTRUCTION" and "VISUAL GRAMMAR TRANSFER", 2026-10-12)
+
+Iterated in a visual lab (disposable world + Next dev on a free port in the GRÜN worktree, Chromium 1600×1000, the Capability Field
+captured in the same environment as the reference) until the Job Field reads as the same planetarium. The inspectable sequence lives in
+`docs/career_analysis/evidence/job-pool/living-field/` (00 reference, 01a before, 01 FIELD, 02a/02 ORGANIZATION transition and rest,
+03a/03 ROLE unfolding and rest, 04 REQUIREMENT, 05 EVIDENCE, 06 RETURN).
+
+What transferred, in the Capability Field's own grammar: (1) regions are planetarium nodes — glass body (`rgba(10,14,20,.35)`, rim
+`rgba(56,229,255,.4)` 1.3 px, lit `#38e5ff` 1.6 px), inner ring, dashed outer ring, signature ring at .78 r, and inside the node the
+identity block (kicker `01`, `⬡ NAME` mono 12.2 / 700 / tracked, subtitle `industry · region` mono 8 muted) above the roles and the
+density pill (`N ROLES`) below; the region radius is `min(190, 92 + 30·√roles)` and the roles sit on an inner ring in the lower part of
+the region (centre +.14 r, ring .44 r, .52 r unfolded) so the block reads above them; (2) role carriers are cores with a signature
+(inner dashed ring .55 r + centre point), the title below the body in mono 9.6 / 700 uppercase with its `N REQUIREMENTS` line; in the
+ecology the title sits inside the core in mono uppercase and two plasma rings (dash `24 12 8 16` / `16 8 4 12`) settle into place once
+(`sxCoreSettle`, finite, bound to `role_selected`); (3) the pool has a core at the field centre — glow, `#sxCore` body, two dashed
+plasma rings (`sxOrbit` 120 s and 90 s reverse, FIELD only, pool sign in state `field`, R15), the pool name and `N ORGANIZATIONS` —
+from which the containment spokes radiate; (4) evidence carriers use the planetarium's evidence colour (mint `#7effcc`): a document
+glyph with a `SOURCE` kicker and the title, and each trace carries a ray underlay that draws on from the source carrier to the anchor
+(`sxTraceDraw`, finite, `trace_rise`; `pathLength` 1, dash offset 1 → 0) while the trace pattern fades in behind it; (5) requirement
+labels are mono 7.8 / 700 (`REQUIREMENT_LABEL.charWidth` 4.9, routing and renderer alike); (6) the aperture carries the hover-HUD
+surface of the planetarium (starfield gradient, 1.5 px cyan border, layered shadow); (7) `SOURCE_BOX` grew to the carrier's real reach
+(above 14, below 68) so the REQUIREMENT camera keeps the carrier with its kicker and title in view (O-SX-4 holds).
+Reference values come from the sealed files (`SemanticCareerIntelligenceField.tsx`, `OrbitalResonanceBubble.tsx`,
+`IdentityCoreDropZone.tsx`, `CapabilityDeepFocusView.tsx`), read only.
+
 Manifestations are shape-encoded, never colour-only (§13.4 keyboard/accessibility): supported = filled anchor, stable trace; weak =
 thin-stroked anchor, thin trace; sweep-only = dotted anchor, dotted trace; open = arc whose gap faces outward from the role, no
 trace; pending = dashed circle around the ecology; unread = plain thin ring. No red family anywhere (R3). Motion: recenter (camera
@@ -622,3 +647,4 @@ observation point. Readable labels wrap at word boundaries (`wrapLines`), never 
 | 2026-10-11 | F-SX-1 / O-SX-1 (PINK, on 3d50c0a) | keyboard focus left the field when a return or an aperture close unmounted the focused sign (Escape then did nothing) → focus follows the observation point (B-SYNTX-FOCUS); a receded trace could capture the pointer over the inspectable one where traces converge → inspectable traces render last (B-SYNTX-TRACE-ORDER). e2e keyboard walk extended (REQUIREMENT aperture → ROLE → ORGANIZATION → FIELD with focus inside at every step) and trace order asserted | e2e 10/10 ×2 · SSR 7/7 · view model 13/13 · GELB governance 10/10 · static 3/3 · semantic governance 4/4 · tsc 0 |
 | 2026-10-11 | Perceptual closure F-SX-2 / O-SX-2 / O-SX-3 / O-SX-4 (GELB on the owner data at :3017 = 8cb4a50; PINK ruling on O-SX-3) | co-terminal traces were drawn on identical endpoints (the dotted sweep trace invisible under the stable one and, DOM-later, owning every pointer point: the matched aperture could not be opened by pointer) → traces are paths with distinct bows (B-SYNTX-BOW); traces crossed the role title → traces bend around the role disc and the labels, carriers are placed beside the requirements that reach them; the carrier was cropped at REQUIREMENT → the camera keeps scale 2.4 and shifts to reach (B-SYNTX-REACH); "1 sources" → number agreement (B-SYNTX-NUMBER) | view model 14/14 · SSR 7/7 · GELB governance 10/10 · semantic governance 4/4 · presentation 9/9 + 4/4 · e2e 10/10 · tsc 0 |
 | 2026-10-12 | Living field (owner mandate "SFE — SYNTX LIVING FIELD · VISUAL RECONSTRUCTION", on 1ca3ca9) | planetarium grammar reconstructed from the sealed Capability Field files (read only) and applied in `SyntxField.tsx`: atmosphere, orbit paths, containment ring and spokes, membranes, cores, glow referents, depth blur, unfold / rise / recenter / suspend-enter transitions, role positions moving with the region, ambient breathing + ring orbit behind one switch (B-SYNTX-MOTION); hit areas cover the rings | view model 14/14 · SSR 7/7 · GELB governance 10/10 · semantic governance 4/4 · presentation 9/9 + 4/4 · PINK static 3/3 + layer · client reads · e2e 10/10 · tsc 0 · sealed files byte-identical |
+| 2026-10-12 | Visual grammar transfer (owner mandates "GREEN · VISUAL FIELD RECONSTRUCTION", "VISUAL GRAMMAR TRANSFER", on e6486b1) | three lab rounds against the Capability Field reference: regions as planetarium nodes with identity block and density pill, roles on a lower inner ring with node typography and core signatures, pool core with plasma rings at the centre, mint evidence carriers with draw-on rays, HUD aperture surface, carrier reach box; sequence recorded under evidence/job-pool/living-field | view model 14/14 · SSR 7/7 · GELB governance 10/10 · semantic governance 4/4 · presentation 9/9 + 4/4 · PINK static 3/3 + layer · client reads · e2e 10/10 · tsc 0 · sealed files byte-identical |

diff --git a/docs/career_analysis/JOB_POOL_WORKFLOW_MANUAL_TEST.md b/docs/career_analysis/JOB_POOL_WORKFLOW_MANUAL_TEST.md
@@ -153,3 +153,4 @@ Sections 3a and 3b describe the retired Pool Field and Job Field (LENS_V1); sinc
 | S11 | Tab · Enter · Esc | Carriers, anchors, traces and boundaries are reachable by Tab; Enter selects / inspects; Esc returns. With `prefers-reduced-motion` every move is instant and every sign keeps its meaning |
 | S12 | ROLE and REQUIREMENT with a requirement that has a scored quote and a sweep quote from the same document | Two traces reach the same carrier on visibly different curves (one bows away); each opens its own aperture by pointer and by Enter; no trace runs through the role title; at REQUIREMENT the carrier with its title stays inside the stage; the summary reads "1 evidence trace from 1 source" (never "1 sources") |
 | S13 | FIELD and ORGANIZATION at rest, then ROLE | The pool's containment ring turns slowly and the region membranes / role halos breathe (opacity and dash drift, nothing moves); selecting a region makes it the lit membrane with one pulse ring while the others recede; selecting a role: its ecology unfolds out of the role (anchors, traces, carriers, the dashed boundary), far regions fall back blurred, and nothing keeps moving afterwards except the pending dash drift. Under `prefers-reduced-motion` nothing moves at any level and every sign is still there |
+| S14 | Switch CAPABILITY ↔ JOB FIELD on the same analysis | Both fields read as one planetarium: the same void, cyan atmosphere, glass-rimmed nodes with kicker / glyph title / subtitle / pill, a core with plasma rings at the centre, dashed spokes, mono typography; evidence is mint like the Capability Field's evidence surface; the aperture is the hover-HUD surface |
